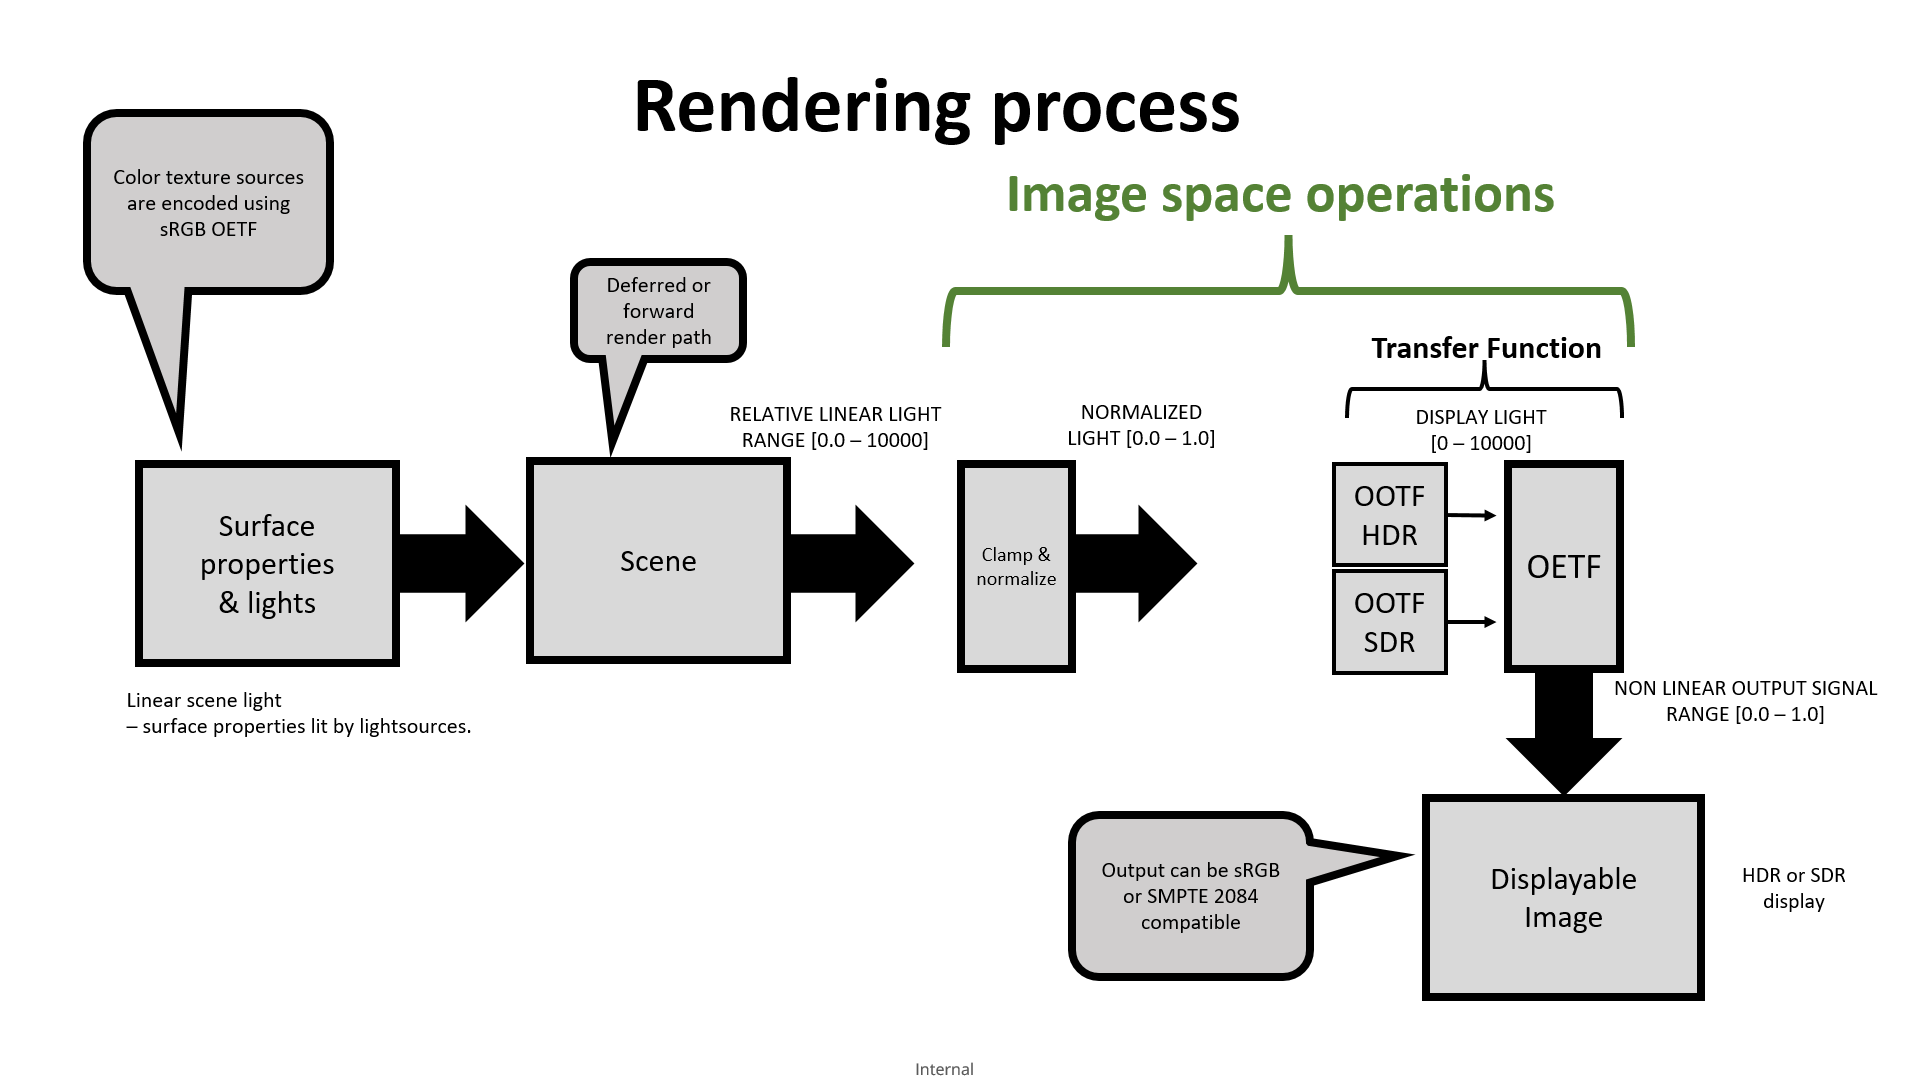
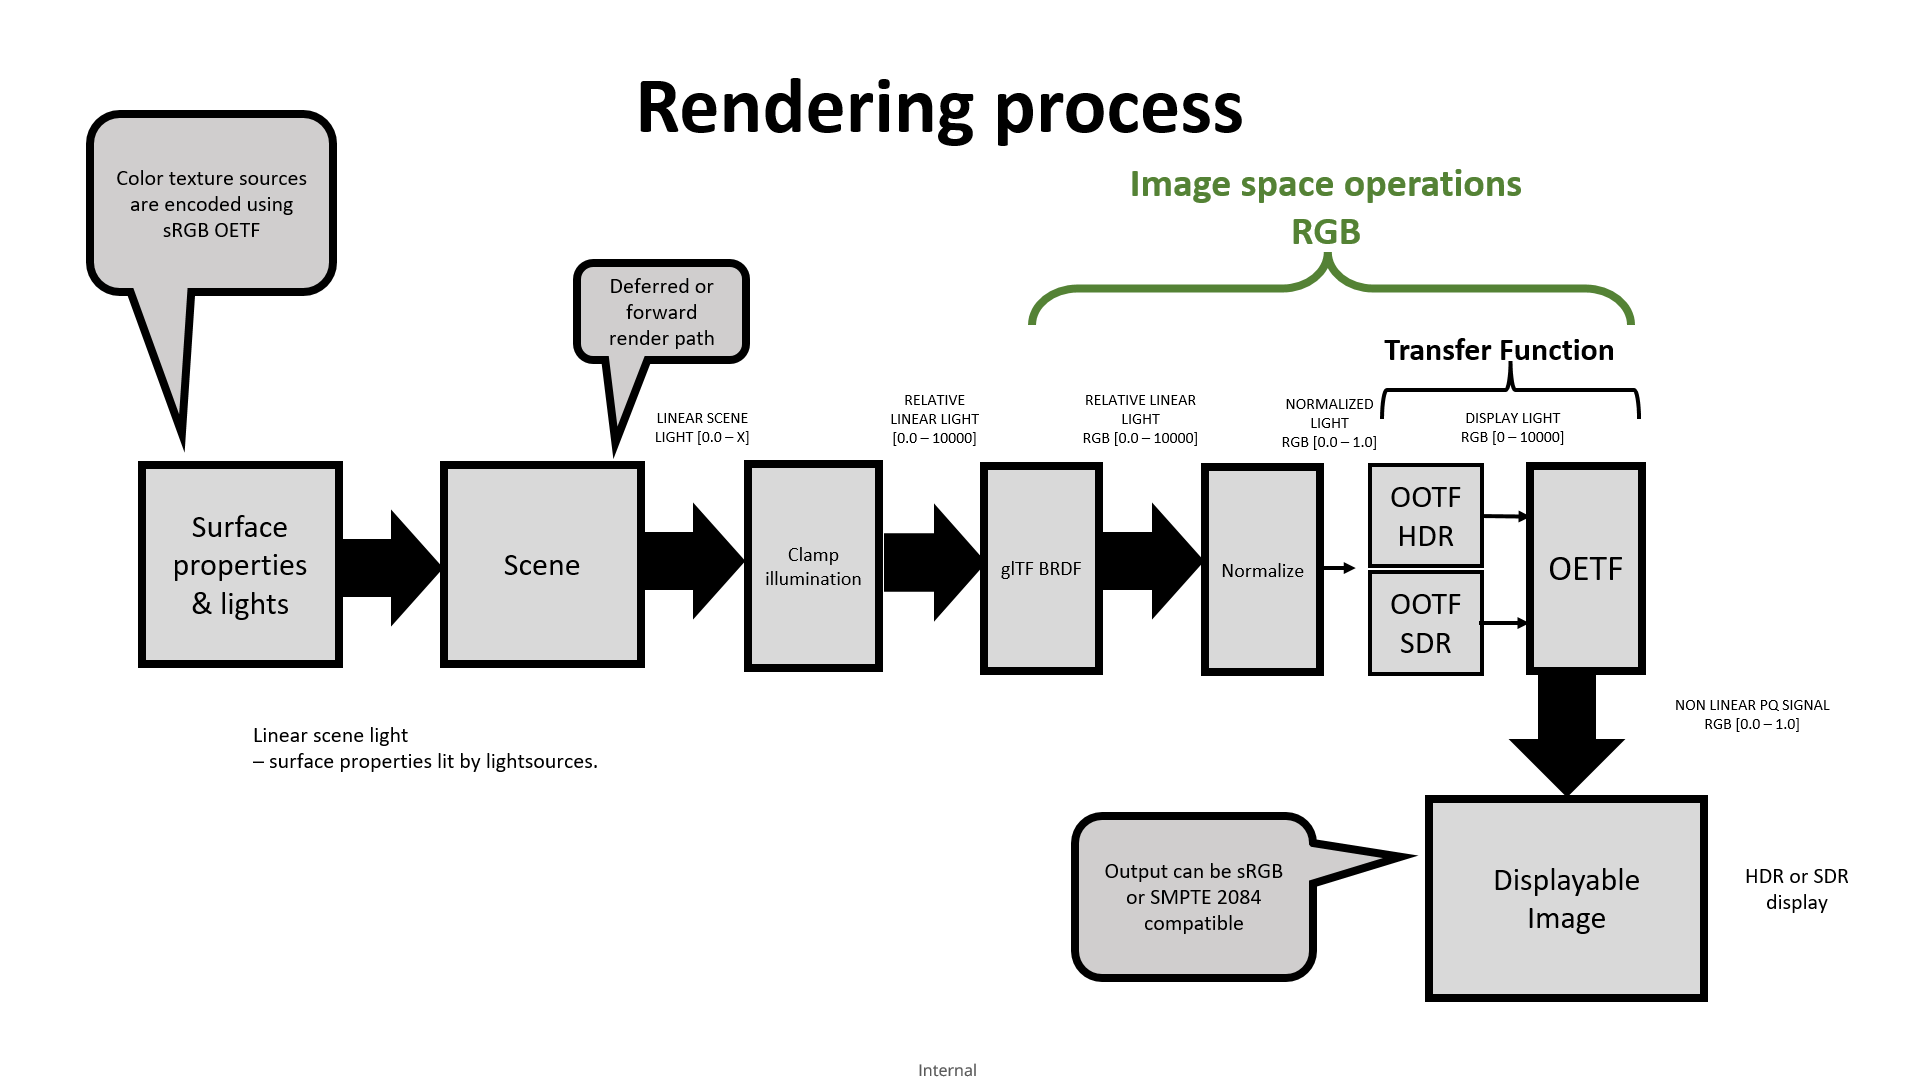
Clarify how illumination values shall be clamped

diff --git a/extensions/2.0/Khronos/KHR_displaymapping_pq/README.md b/extensions/2.0/Khronos/KHR_displaymapping_pq/README.md
@@ -143,37 +143,56 @@ If unknown then choose SDR.
 If the display type is considered to be HDR then color source images may need to be converted to ITU BT.2020 colorspace  
 [See Color source images](#color-source-images)  
 
-**At load time or during each frame**
-
-This step must be performed prior to step 4.  
-
-3: Clamp and normalize relative scene light  
-Clamp light values to 10 000 and divide by 10 000 to get normalized light values.  
-
 
 **During each frame**
 
-The following steps shall be performed before the pixel value is output to display.  
+
+**Clamp**
+ Clamp incoming light values (illumination)  
+Before incoming light values are used in BRDF calculations they must be clamped at 10 000.  
+Total illumination for a pixel output to the display must not go above 10 000.  
+This shall be done in the light (brightness) domain, prior to RGB calculations.  
+
+**BRDF**
+See the glTF BRDF model for more information:  
+https://www.khronos.org/registry/glTF/specs/2.0/glTF-2.0.html#complete-model..
+
+RGB light output from the glTF BRDF is here called 'relative linear light' and is in the range [0.0 - 10000]  
 
 
-4: Perceptual Quantizer - reference OOTF  
+**Normalize**
+Normalize relative linear light values  
+
+Divide RGB relative linear light by 10 000 to get normalized light values.  
+
+
+**OOTF**
+Perceptual Quantizer - reference OOTF  
 Apply opto-optical transfer function (OOTF), this will apply the reference PQ OOTF as defined in Rec.2390    
 This operation will map normalized light values to display light.  
 Input values are in range {R,G,B} [0.0 - 1.0] and output values in the range {R,G,B} [0 - 10000]    
 [see reference OOTF](#Perceptual-Quantizer-reference-OOTF)  
 
-5:   Perceptural Quantizer - reference OETF  
+**OETF**
+Perceptural Quantizer - reference OETF  
 Apply the opto-electrical transfer function (OETF).  
 This operation will quantify display light to output values with minimal amount of banding.  
 Input values are display values in the range {R,G,B} [0 - 10000] and output is non-linear display values in range {R,G,B} [0.0 - 1.0]  
+
+If target framebuffer is an encoded non-linear image format, the inverse of that encoding must be applied to the non-linear PQ signal.  
+
+
+**Pipeline**
 
 
 
 | Input         |   Function    | Output range  | Description   |
 | ------------- | ------------- | ----------- |------------- |
-| [0.0 - X] | Clamp & normalize | [0.0 - 1.0] | Output is normalized light. Clamps values to be <= 10000 and then divide by 10000 |
-| [0.0 - 1.0]|     OOTF      | [0 - 10 000]  | Output is display light. Reference PQ OOTF - maps normalized light to display light |
-| [0 - 10 000]  |     OETF      | [0.0 - 1.0] | Output is nonlinear PQ signal. Framebuffer output - maps display light to nonlinear PQ signal value |
+| [0.0 - X] | Clamp | [0.0 - 10000] | Clamps illumination values to be <= 10000. Total illumination for a pixel output to the display must not go above 10 000. Output is relative linear light. |
+| [0.0 - 10000] | BRDF | [0.0 - 10000] | The glTF BRDF calculations. Output is pixel light contribution to be displayed. |
+| [0.0 - 10000] | Normalize | [0.0 - 1.0] | Normalizes the relative linear light by dividing by 10 000. Output is normalized light. |
+| [0.0 - 1.0]|     OOTF      | [0 - 10 000]  | Reference PQ OOTF - maps normalized light to display light. Output is display light. |
+| [0 - 10 000]  |     OETF      | [0.0 - 1.0] | Framebuffer output - maps display light to nonlinear PQ signal value. Output is non-linear PQ signal. |
 
 
 **Implementation Notes**
@@ -183,14 +202,16 @@ Overview of where implementations may decide to perform the functions defined by
 
 <figure>
 <img src="./images/RenderProcess.png"/>
-<figcaption><em>Example design flow of image space implementation. This shows where implementations may choose to apply the image space functions of this extension. Note that this is only one example of how the renderprocess could be implemented. An implementation may need to apply image space operations at different points in process</em></figcaption>
+<figcaption><em>Example design flow of image space implementation. This shows where implementations may choose to apply the image space functions of this extension. Note that this is only one example of how the renderprocess could be implemented. An implementation may need to apply image space operations at different points in the process</em></figcaption>
 </figure>
 
-If, for instance a tone-mapping or LUT type of operation shall be performed it can be done at a stage prior to the perceptual quantizer OETF.  
-Exactly where this is performed will depend on in what space the operations shall be performed.  
-To apply a LUT that is operates on normalized color values [0.0 - 1.0] - call your function after step 3.  
-To apply a tonemapper that operates on unadjusted linear scene light [0.0 - X] - call your function before step 3.  
-To apply a tonemapper that operates on display light values [0 - 10000] call your funcation after step 4.  
+If a pixel processing step shall be performed by a renderer, it can be done prior to **OETF**.  
+
+Exactly where this is performed will depend on in what space the processing shall be performed.  
+To process normalized light color values [0.0 - 1.0] - call your function after **Normalize**.  
+
+To process linear scene light [0.0 - X] - call your function before **Normalize**.  
+To process display light values [0 - 10000] call your function after **BRDF**.  
 
 
 ### Motivation
@@ -232,17 +253,18 @@ The extension is fully compatible with such usecases</em></figcaption>
 
 
 
-## Internal range of light contribution values
+## Internal range of illumination (light contribution) values
 
-This section describes how light contribution values shall be handled.  
 
-When the KHR_displaymapping_pq extension is used all lighting and pixel calculations shall be done using the value 10000 (cd / m2) as the maximum ouput brightness.    
-Limiting the range of light contribution values to the specified range is done as part of the Integration Points.  
+When the KHR_displaymapping_pq extension is used all lighting and pixel calculations shall be done using the value 10000 (cd / m2) as the maximum ouput brightness.  
+
+Limiting the range of light contribution values to the specified range is done as part of the Integration Points.    
+[See Integration Points](#Integration-Points)  
+
 This does not have an impact on color texture sources since they define values as contribution factor.  
-The value 10000 cd / m2 for an output pixel with full brightness is chosen to be compatible with the Perceptual Quantizer (PQ) used in the SMPTE ST 2084 transfer function.  
 
-When using this extension light contribution values shall be aligned to account for 10000 cd/m2 as max output value, meaning that the range {R,G,B} is 0 to 10000.  
-Content creators shall be aware of 10000 cd/m2 as the maximum value range.  
+The value 10000 cd / m2 for an output pixel with full brightness is chosen to be compatible with the Perceptual Quantizer (PQ) used in SMPTE ST 2084.. 
+
 It does not mean that the display will be capable of outputing this light intensity.  
 
 
@@ -251,8 +273,13 @@ It does not mean that the display will be capable of outputing this light intens
  
 This section describes how a content creator and exporter shall handle lightsources, such as point, directional, emissive or environment lights, that are saved with the model.  
 
-As a content creator using this extension the light intensity value of 10 000 lumen / m2 shall be considered scene max intensity.  
-This will give the benefit of a known increased light range as well as providing enough fidelity for most usecases.  
+As a content creator using this extension the light intensity value of 10 000 lumen / m2 is the max illumination value for each output pixel.  
+Giving the benefit of a known increased light range as well as providing enough fidelity for most usecases.  
+
+Illumination values are clamped as part of the rendering process during BRDF light calculations meaning that the scene max light values can go above 10 000 lumen / m2.  
+
+Adding illumination above 10 000 lumen / m2 will give the effect of brightening the darker areas without affecting hue.    
+
 The below images show 3D Commerce certification models under different illuminations, note that the light is one directional light.  
 
 
@@ -262,13 +289,10 @@ The below images show 3D Commerce certification models under different illuminat
 
 
 
-A content creation tool supporting this extension shall sum upp light contribution for a scene before exporting to glTF, this can be a naive addition of all lights included in the scene that adds max values together.  
-If scene max light contribution intensity is above 10000 there is a choice to either downscale or clamp light values before export..
-
-
 ## Display type
 
 This section describes how to decide if display type is HDR or SDR.  
+
 
 ### HDR capable display
 
@@ -292,13 +316,15 @@ Another solution would be to perform render calculation in BT.709 colorspace and
 
 ### SDR capable display
 
-If the framebuffer format or colorspace is not known, or none is available that fulfils the HDR requirements, a framebuffer with sRGB colorspace may be used.  
+If a framebuffer format that fulfills the HDR requirements is not available, a framebuffer in sRGB colorspace may be used.    
+
 This is to allow for compatibility with displays that does not support higher range and/or compatible colorspaces.  
 It also allows implementations where the details of the framebuffer is not known or available.  
 
 A SDR capable display is defined as having less than 10 bits per pixel for each colorchannel.  
 
 For SDR output,  a range extension value of 46.42 and gamma of 2.4 shall be used in the OOTF - [see reference OOTF](#Perceptual-Quantizer-reference-OOTF) 
+
 
 ## Color source images
 
@@ -335,7 +361,7 @@ FD = G1886[E'] = pow(100 E′, gamma)
 ```
 
 
-E {R, G, B} is the clamped and normalized scene light value.  
+E {R, G, B} is the normalized light value.  
 FD is the display light value that shall be passed to the OETF.  
 
 The rangeExtension and gamma values shall be set according to HDR or SDR display.  
@@ -353,15 +379,14 @@ range extension = 46.42
 gamma = 2.4  
 ```
 
-**Implementation Notes** 
 
-At the stage prior to OOTF, values shall be clamped to 10 000 and normalized.  
-
+**Implementation notes**
 
 Pseudocode for BT.2100 reference OOTF  
 
 `color` in the BT_2100_OOTF function is in range [0.0 - 1.0]    
-`sceneColor` is the calculated pixel value from the BRDF.  
+`sceneColor` is the relative linear light pixel value from the BRDF.    
+
 
 ```
 //Note the BT 2100 specification includes a check for [RGB] values <= 0.0003024
@@ -373,8 +398,8 @@ vec3 BT_2100_OOTF(vec3 color, rangeExponent, gamma) {
     return 100 * pow(nonlinear, gamma);
 }  
 
-vec3 clampedNormalizedColor = clamp(10000, sceneColor) / 10000;
-displayColor = BT_2100_OOTF(clampedNormalizedColor, rangeExponent, gamma);
+vec3 normalizedColor = sceneColor / 10000;
+displayColor = BT_2100_OOTF(normalizedColor, rangeExponent, gamma);
 
 ```
 
